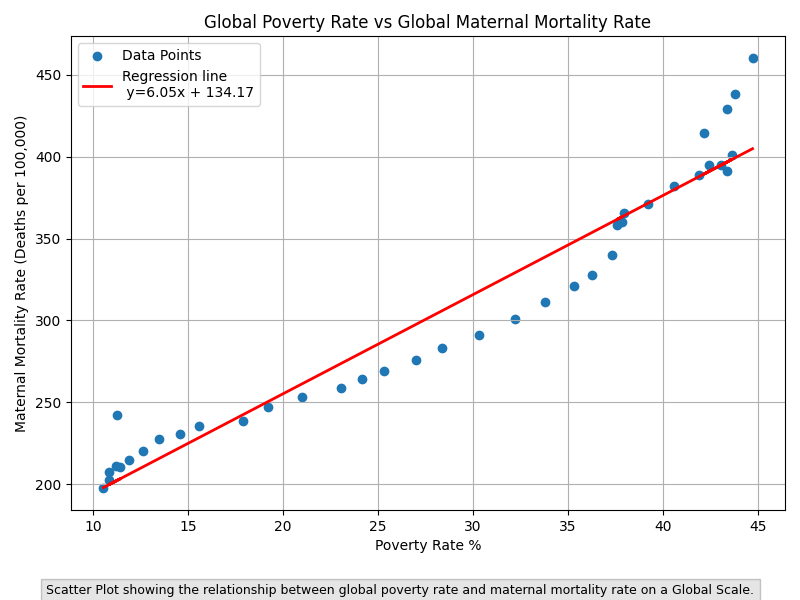
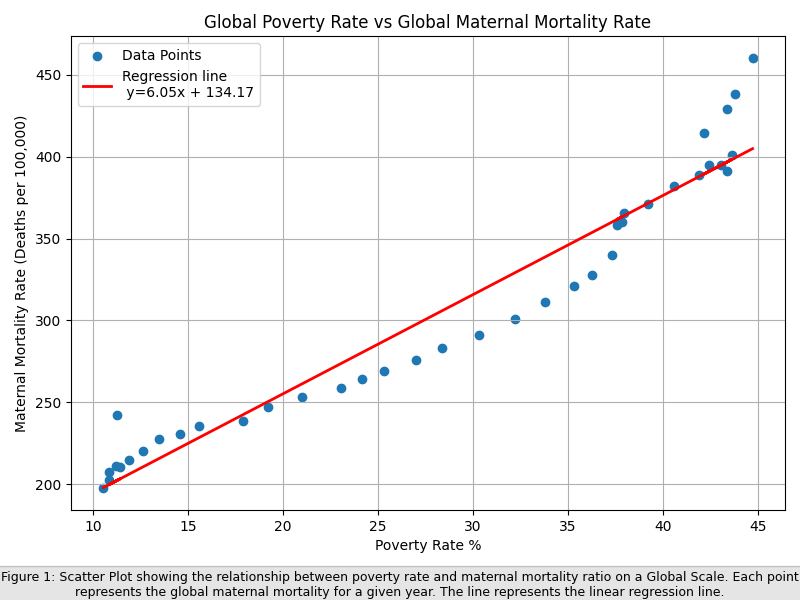
modification: improved captioning on figures and labelled outlier Nigeria on boxplot

Changed region(s): [[0.0, 0.93, 1.0, 1.0]]

diff --git a/mainCode.py b/mainCode.py
@@ -232,7 +232,7 @@ def plot_scatter_poverty_mmr():
     plt.title('Global Poverty Rate vs Global Maternal Mortality Rate')
     plt.xlabel('Poverty Rate %')
     plt.ylabel('Maternal Mortality Rate (Deaths per 100,000)')
-    txt="Scatter Plot showing the relationship between global poverty rate and maternal mortality ratio on a Global Scale."
+    txt="Figure 1: Scatter Plot showing the relationship between poverty rate and maternal mortality ratio on a Global Scale. Each point represents the global maternal mortality for a given year. The line represents the linear regression line."
     plt.figtext(0.5, 0.01, txt, wrap=True, horizontalalignment='center', fontsize=9, bbox ={'facecolor':'grey', 'alpha':0.2})
     plt.grid(True)
     plt.legend()
@@ -289,7 +289,7 @@ def plot_bubble_plot():
     plt.xlabel('Poverty Rate %')
     plt.ylabel('Maternal Mortality Rate (Deaths per 100,000)')
     plt.legend()
-    txt="Bubble Plot showing the relationship between poverty rate, education completion and maternal mortality ratio on a Global Scale."
+    txt="Bubble Plot showing the relationship between poverty rate, education completion and maternal mortality ratio on a Global Scale. Each point represents the global maternal mortality for a given year. The line represents the linear regression line. The cbar represents education rate."
     plt.figtext(0.5, 0.01, txt, wrap=True, horizontalalignment='center', fontsize=9, bbox ={'facecolor':'grey', 'alpha':0.2})
     plt.grid(True)
     plt.tight_layout()
@@ -318,11 +318,38 @@ def box_plots():
     income_df = income_df.rename(columns={'Economy': 'Country'})
 
     merged_df = mmr_2023.merge(income_df, on=["Country"])
+    fig, ax = plt.subplots(figsize=(8, 7))
+    merged_df.boxplot( column="MMR", by="Income group" , ax=ax)
 
-    merged_df.boxplot(
-        column="MMR",
-        by="Income group"
+ 
+    # Gets most extreme mmr value
+    extreme_row = merged_df.loc[merged_df["MMR"].idxmax()]
+
+    # Gets y axis value
+    extreme_mmr = extreme_row["MMR"]
+     
+    # Gets country name
+    extreme_country = extreme_row["Country"]
+
+    # Gets income group of extreme value
+    extreme_income = extreme_row["Income group"]
+
+    # Find x-position of the income group box
+    income_groups = merged_df["Income group"].sort_values().unique()
+    x_pos = list(income_groups).index(extreme_income) 
+
+    # Plot and label the extreme point
+    ax.scatter(x_pos, extreme_mmr, color="red", s=80, zorder=5)
+
+    ax.annotate(
+        f"{extreme_country}",
+        xy=(x_pos, extreme_mmr),
+        xytext=(x_pos + 0.3, extreme_mmr + 20),
+        arrowprops=dict(arrowstyle="->", color="blue"),
+        fontsize=9,
+        color="blue"
     )
+
     # Plotting the Graph
     plt.suptitle(" ") # Gets rid of automatic graph title
     plt.title("Distribution of Maternal Mortality Rate by Income Group")
@@ -333,8 +360,7 @@ def box_plots():
     plt.text(
     0.02, 70, 'mmr = 70',
     verticalalignment='bottom', bbox ={'facecolor':'grey', 'alpha':0.2})
-
-    txt="Box Plots showing the distribution of maternal mortality ratio in different income group in 2023. Each data point represent a country."
+    txt="Figure 3: Boxplots showing the distribution of maternal mortality ratio in different World Bank income groups in 2023 (most recent available year of data). Each data point represent a country."
     plt.figtext(0.5, 0.01, txt, wrap=True, horizontalalignment='center', fontsize=9, bbox ={'facecolor':'grey', 'alpha':0.2})
     plt.grid(axis="y")
     plt.tight_layout()
@@ -431,7 +457,8 @@ def plot_high_low_income_scatter():
     ax_high.legend()
     ax_low.legend() 
     plt.tight_layout()
-    txt="Scatter Plot showing the relationship between education completion and maternal mortality ratio in High and Low Income Groups."
+    
+    txt="Figure 2: Scatter Plot showing the relationship between primary completion rate and maternal mortality ratio in High and Low Income Groups. Each point represents the Mean maternal mortality for each given year. The line represents the linear regression line. "
     plt.figtext(0.5, 0.01, txt, wrap=True, horizontalalignment='center', fontsize=9, bbox ={'facecolor':'grey', 'alpha':0.2})
     plt.tight_layout()
     # Reserve space at the bottom for caption
@@ -523,7 +550,7 @@ def plot_world_nigeria_timeseries():
     # Reserve space at the bottom for caption
     plt.subplots_adjust(bottom=0.10)
 
-    txt="Timeseries showing maternal mortality ratio overtime Globally and in Nigeria."
+    txt="Timeseries showing maternal mortality ratio overtime globally and in Nigeria."
     plt.figtext(0.5, 0.01, txt, wrap=True, horizontalalignment='center', fontsize=9, bbox ={'facecolor':'grey', 'alpha':0.2})
     plt.savefig(f"{figures_directory}/timeseries_world_nigeria_mmr.png")
     plt.show()
@@ -649,8 +676,8 @@ poverty_df_world, education_df_world, mmr_df_world = world_filters("Country", "W
 
 if __name__ == "__main__":
     
-    pov_2023_column = percentage_pop_poverty()
-    print (pov_2023_column)
+    # pov_2023_column = percentage_pop_poverty()
+    # print (pov_2023_column)
 
     plot_world_nigeria_mmr = plot_world_nigeria_timeseries()
     print(plot_world_nigeria_mmr)
